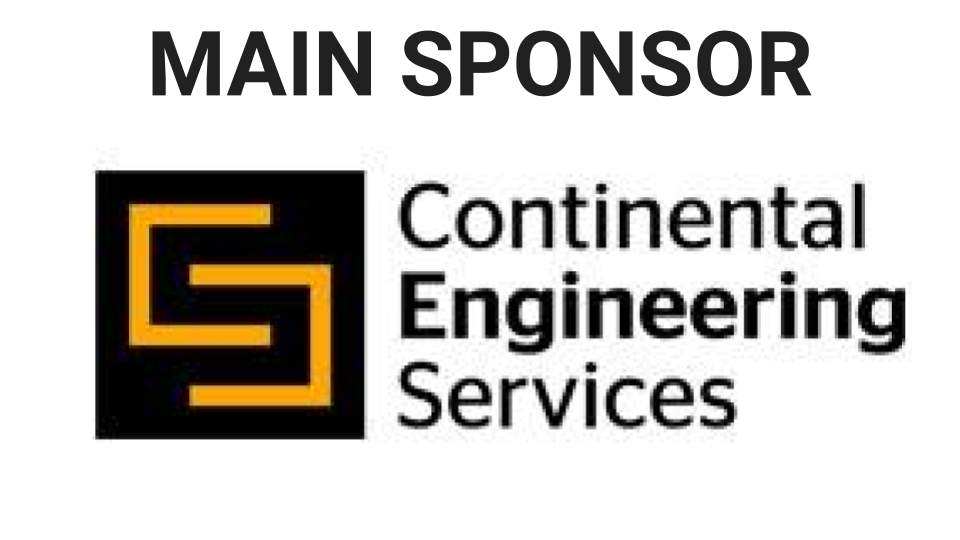
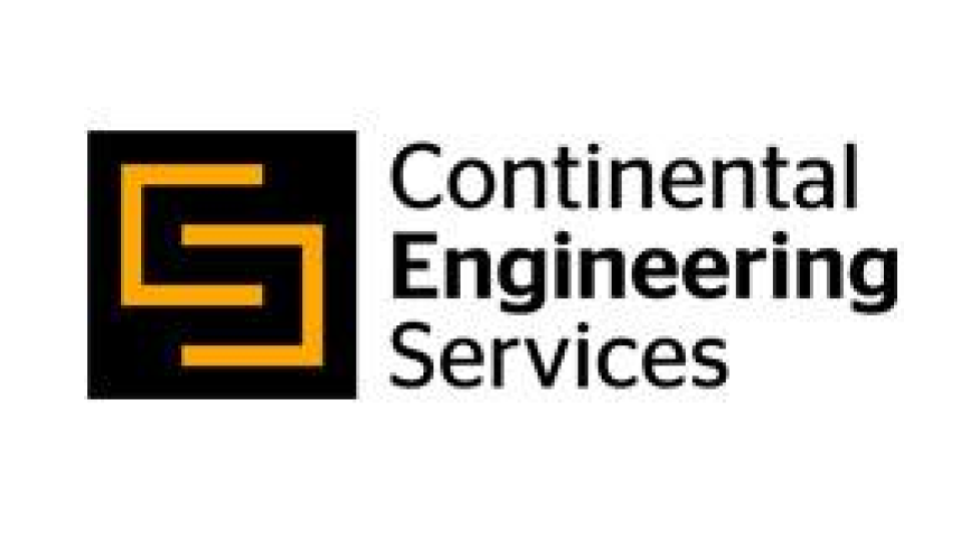
Main sponsor

diff --git a/index.html b/index.html
@@ -29,107 +29,6 @@
 		<!-- Header Area wrapper Starts -->
 		<header id="header-wrap">
 
-			<!-- Navbar Start 
-			<nav class="navbar navbar-expand-lg fixed-top scrolling-navbar">
-				<div class="container">
-					 Brand and toggle get grouped for better mobile display
-					<div class="navbar-header">
-						<button class="navbar-toggler" type="button" data-toggle="collapse"
-							data-target="#main-navbar" aria-controls="main-navbar"
-							aria-expanded="false" aria-label="Toggle navigation">
-							<span class="navbar-toggler-icon"></span>
-							<span class="icon-menu"></span>
-							<span class="icon-menu"></span>
-							<span class="icon-menu"></span>
-						</button>
-						<a href="index.html" class="navbar-brand">FEUP ENGINEERING DAYS
-							 <img src="assets/img/logo.png" alt="">
-						</a>
-					</div>
-
-					<div class="collapse navbar-collapse" id="main-navbar">
-						<ul class="navbar-nav mr-auto w-100 justify-content-end">
-							<li class="nav-item active">
-								<a class="nav-link" href="#header-wrap">
-									Home
-								</a>
-							</li>
-							<li class="nav-item">
-								<a class="nav-link" href="#about">
-									About
-								</a>
-							</li>
-							<li class="nav-item">
-								<a class="nav-link" href="#schedules">
-									schedules
-								</a>
-							</li>
-							<li class="nav-item">
-								<a class="nav-link" href="#team">
-									Speakers
-								</a>
-							</li>
-							<li class="nav-item">
-								<a class="nav-link" href="#gallery">
-									Gallery
-								</a>
-							</li>
-							<li class="nav-item">
-								<a class="nav-link" href="#faq">
-									Faq
-								</a>
-							</li>
-							<li class="nav-item">
-								<a class="nav-link" href="#sponsors">
-									Sponsors
-								</a>
-							</li>
-							<li class="nav-item">
-								<a class="nav-link" href="#pricing">
-									pricing
-								</a>
-							</li>
-							<li class="nav-item">
-								<a class="nav-link" href="#google-map-area">
-									Contact
-								</a>
-							</li>
-						</ul>
-					</div>
-				</div>
--->
-			<!-- Mobile Menu Start 
-				<ul class="mobile-menu">
-					<li>
-						<a class="page-scrool" href="#header-wrap">Home</a>
-					</li>
-					<li>
-						<a class="page-scrool" href="#about">About</a>
-					</li>
-					<li>
-						<a class="page-scroll" href="#schedules">schedules</a>
-					</li>
-					<li>
-						<a class="page-scroll" href="#team">Speakers</a>
-					</li>
-					<li>
-						<a class="page-scroll" href="#gallery">Gallery</a>
-					</li>
-					<li>
-						<a class="page-scroll" href="#faq">Faq</a>
-					</li>
-					<li>
-						<a class="page-scroll" href="#sponsors">Sponsors</a>
-					</li>
-					<li>
-						<a class="page-scroll" href="#pricing">pricing</a>
-					</li>
-					<li>
-						<a class="page-scroll" href="#google-map-area">Contact</a>
-					</li>
-				</ul>
-			 Mobile Menu End 
-						</nav>-->
 			<!-- Navbar End -->
 
 			<!-- Main Carousel Section Start -->
@@ -177,20 +76,21 @@
 							class="lni-chevron-right"></i></span>
 					<span class="sr-only">Next</span>
 				</a>
+				<div class="social-nav">
+					<ul>
+						<li><a href="https://www.facebook.com/events/1083042278853339"><img
+									src="assets/img/icon-facebook.png" /></a></li>
+						<li><a href="https://www.linkedin.com/company/aefeup/"><img
+									src="assets/img/icon-linkedin.png" /></a></li>
+						<li><a href="https://www.instagram.com/aefeup/"><img
+									src="assets/img/icon-instagram.png" width="20" /></a></li>
+					</ul>
+				</div>
 			</div>
 			<!-- Main Carousel Section End -->
 
 		</header>
-		<nav class="social-nav">
-			<ul>
-				<li><a href="https://www.facebook.com/events/1083042278853339"><img
-							src="assets/img/icon-facebook.png" /></a></li>
-				<li><a href="https://www.linkedin.com/company/aefeup/"><img
-							src="assets/img/icon-linkedin.png" /></a></li>
-				<li><a href="https://www.instagram.com/aefeup/"><img
-							src="assets/img/icon-instagram.png" width="20" /></a></li>
-			</ul>
-		</nav>
+
 		<!-- Header Area wrapper End -->
 
 		<!-- Coundown Section Start -->
@@ -216,7 +116,32 @@
 		<!-- Coundown Section End -->
 
 		<!-- Sponsors Section Start -->
-		<section id="sponsors" class="section-padding">
+		<section id="main_sponsor" class="section-padding ">
+			
+			<div class="container">
+				<div class="row">
+					<div class="col-12">
+						<div class="section-title-header text-center">
+							<h1 class="section-title wow fadeInUp" data-wow-delay="0.2s">Main Sponsor</h1>
+						</div>
+					</div>
+				</div>
+					<div class="row mb-30 text-center wow fadeInDown justify-content-center"
+						data-wow-delay="0.3s">
+						<div class="col-md-3 col-sm-3 col-xs-12">
+							<div class="spnsors-logo">
+								<a href=""><img class="img-fluid" src="images/sponsors/continental.png"
+										alt="" onclick="return false;"></a>
+							</div>
+						</div>
+					
+					</div>
+					
+				</div>
+			</div>
+		</section>
+		<section id="sponsors" class="section-padding no-padding-top">
+			
 			<div class="container">
 				<div class="row">
 					<div class="col-12">
@@ -225,53 +150,51 @@
 						</div>
 					</div>
 				</div>
-				<div class="row mb-30 text-center wow fadeInDown justify-content-center"
-					data-wow-delay="0.3s">
-					<div class="col-md-3 col-sm-3 col-xs-12">
-						<div class="spnsors-logo main-sponsors-logo">
-							<a href=""><img class="img-fluid" src="images/sponsors/continental.png"
-									alt="" onclick="return false;"></a>
+					<div class="row mb-30 text-center wow fadeInDown justify-content-center"
+						data-wow-delay="0.3s">
+						<div class="col-md-3 col-sm-3 col-xs-12">
+							<div class="spnsors-logo">
+								<a href=""><img class="img-fluid" src="images/sponsors/euronext.png"
+										alt="" onclick="return false;"></a>
+							</div>
+						</div>
+						<div class="col-md-3 col-sm-3 col-xs-12">
+							<div class="spnsors-logo">
+								<a href="#"><img class="img-fluid" src="images/sponsors/montaengil.png"
+										alt="" onclick="return false;"></a>
+							</div>
 						</div>
 					</div>
-					<div class="col-md-3 col-sm-3 col-xs-12">
-						<div class="spnsors-logo">
-							<a href=""><img class="img-fluid" src="images/sponsors/euronext.png"
-									alt="" onclick="return false;"></a>
+					<div class="row mb-30 text-center justify-content-center wow fadeInDown"
+						data-wow-delay="0.3s">
+						<div class="col-md-3 col-sm-3 col-xs-12">
+							<div class="spnsors-logo">
+								<a href=""><img class="img-fluid" src="images/sponsors/siemens.png"
+										alt="" onclick="return false;"></a>
+							</div>
 						</div>
-					</div>
-					<div class="col-md-3 col-sm-3 col-xs-12">
-						<div class="spnsors-logo">
-							<a href="#"><img class="img-fluid" src="images/sponsors/montaengil.png"
-									alt="" onclick="return false;"></a>
+						<div class="col-md-3 col-sm-3 col-xs-12">
+							<div class="spnsors-logo">
+								<a href=""><img class="img-fluid" src="images/sponsors/simoldes.png"
+										alt="" onclick="return false;"></a>
+							</div>
 						</div>
-					</div>
-				</div>
-				<div class="row mb-30 text-center justify-content-center wow fadeInDown"
-					data-wow-delay="0.3s">
-					<div class="col-md-3 col-sm-3 col-xs-12">
-						<div class="spnsors-logo">
-							<a href=""><img class="img-fluid" src="images/sponsors/siemens.png"
-									alt="" onclick="return false;"></a>
+						<div class="col-md-3 col-sm-3 col-xs-12">
+							<div class="spnsors-logo">
+								<a href=""><img class="img-fluid" src="images/sponsors/vodafone.png"
+										alt="" onclick="return false;"></a>
+							</div>
 						</div>
-					</div>
-					<div class="col-md-3 col-sm-3 col-xs-12">
-						<div class="spnsors-logo">
-							<a href=""><img class="img-fluid" src="images/sponsors/simoldes.png"
-									alt="" onclick="return false;"></a>
-						</div>
-					</div>
-					<div class="col-md-3 col-sm-3 col-xs-12">
-						<div class="spnsors-logo">
-							<a href=""><img class="img-fluid" src="images/sponsors/vodafone.png"
-									alt="" onclick="return false;"></a>
-						</div>
-					</div>
 
+					</div>
 				</div>
 			</div>
 		</section>
 		<!-- Sponsors Section End -->
 
+
+  <!-- Tabs content -->
+<!-- ./Tabs -->
 		<!-- Go to Top Link -->
 		<a href="#" class="back-to-top">
 			<i class="lni-chevron-up"></i>

diff --git a/assets/css/main.css b/assets/css/main.css
@@ -356,8 +356,8 @@ h2{
 
 .social-nav {
 	position:absolute;
-	top: 0px;
-	right: 40px;
+	bottom: 0px;
+	left: 40px;
 }
 .social-nav ul {margin: 0; padding:0;}
 .social-nav ul li{
@@ -614,6 +614,11 @@ a.back-to-top:hover, a.back-to-top:focus {
   padding: 0 !important;
 }
 
+.no-padding-top {
+  padding-top: 0 !important;
+}
+
+
 .padding-left-none {
   padding-left: 0;
 }
@@ -711,7 +716,10 @@ a.back-to-top:hover, a.back-to-top:focus {
   font-size: 15px;
 }
 
+.navbar{
+  background-color:  rgb(2, 12, 63);
 
+}
 
 .navbar-brand {
   position: relative;
@@ -1083,7 +1091,7 @@ a.back-to-top:hover, a.back-to-top:focus {
 }
 
 /* Sponsors Area */
-#sponsors {
+#sponsors, #main_sponsor {
   background: #f3f4f3;
 }
 
@@ -2415,7 +2423,8 @@ a.back-to-top:hover, a.back-to-top:focus {
   background-color: black;
 }
 
-
+a{
+color: black;}
 .img-fluid{
-  height: 8em;
+  max-height: 8em;
 }
